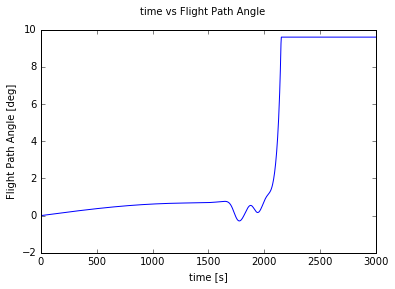
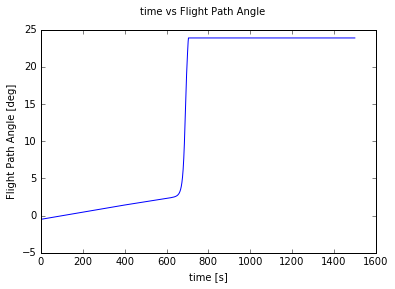
License and readme added

diff --git a/inputs.py b/inputs.py
@@ -7,7 +7,7 @@ def get_inputs():
     """""""""""""""""""""""""""""""""""""""""""""""""""""""""""""""""""""
     
     # Atmosphere options
-    Atmosphere = 1 # 0 for mutant US62/US76 standard atmosphere, 1 for NRLMSISE-00
+    Atmosphere = 0 # 0 for mutant US62/US76 standard atmosphere, 1 for NRLMSISE-00
     
     #nrlmsise-00 options. 
     nrlmsise00_year = 0.
@@ -26,27 +26,27 @@ def get_inputs():
     scWidth = 3.4 # Width [m]
     scDepth = 4.8 # Depth [m]
     scHeight = 2.35 # Height [m]
-    scDensity = 30. # Density of spacecraft [kg/m3]
+    scDensity = 1000. # Density of spacecraft [kg/m3]
   
     # Initial Spacecraft Conditions    
-    FlightPathAngle = 0. # Positive down [deg]
+    FlightPathAngle = -0.5 # Positive down [deg]
     Heading = 102. # Measured clockwise from North [deg]
-    Speed = 7727. # Velocity
+    Speed = 7500. # Velocity
     Latitude = -79.8489  # [deg] Actually Declination. Geodetic Latitude input will be implemented soon
     Longitude = -10 # [deg]
-    Altitude = 220e3 # Initial altitude [m]
+    Altitude = 200e3 # Initial altitude [m]
     
     Pitch = 0. # Euler Angle 1 measured from Geocentric coordinate system
     Yaw = 0. # Euler Angle 2 measured from Geocentric coordinate system
     Roll = 0. # Euler Angle 3 measured from Geocentric coordinate system
     
     omega_x = 0. #3.14 # Angular velocity about the BODY x- axis [deg/s]
-    omega_y = 0. #0.314 # Angular velocity about the BODY y- axis [deg/s]
+    omega_y = 1. #0.314 # Angular velocity about the BODY y- axis [deg/s]
     omega_z = 0. #314 # Angular velocity about the BODY z- axis [deg/s]
     
     # Integration parameters
     ndt = 1001 # Number of output steps
-    tmax = 3000 # time [s]
+    tmax = 1500 # time [s]
     
     """""""""""""""""""""""""""""""""""""""""""""""""""""""""""""""""""""
     #          P O S T P R O C E S S I N G      O P T I O N S           #
@@ -82,8 +82,8 @@ def get_inputs():
                             ('nrlmsise00_sec' , nrlmsise00_sec),
                             ('nrlmsise00_lst' , nrlmsise00_lst),
                             ('nrlmsise00_f107a' ,nrlmsise00_f107a),
-                            ('nrlmsise00_f107' , nrlmsise00_f107)
-                            ('nrlmsise00_ap' , nrlmsise00_ap)
+                            ('nrlmsise00_f107' , nrlmsise00_f107),
+                            ('nrlmsise00_ap' , nrlmsise00_ap),
                             ('ContinuumMethod' , ContinuumMethod),
                             ('GeometryChoice' , GeometryChoice),
                             ('scWidth' , scWidth),

diff --git a/trajectory.py b/trajectory.py
@@ -64,7 +64,7 @@ def traj_uvw(x, t, earth, mass, areas, normals, centroids, I, scLS, aero_params)
     Kn = mfp/scLS
     q_inf = 0.5*rho*Vinf**2
     
-    if r-earth[1] <= 100e3 and Vinf/SoS < 3:
+    if r-earth[1] <= 80e3 and Vinf/SoS < 3:
         # Check if Mach number falls below 5 (Newtonian theory fails) or
         # S/C hits ground
         # There is a better way of doing this which I should implement
@@ -106,13 +106,14 @@ def traj_uvw(x, t, earth, mass, areas, normals, centroids, I, scLS, aero_params)
         edotrot = np.subtract(angvel,(1./r)*np.dot(Gcb,np.array([v, -u, -v*tphi])))
         edot = 0.5*np.dot(emat,edotrot)
         
+        J = 1.5*J2*earth[1]**2
         # time derivative of state variables
         dxdt = [-w,
                 u/r,
                 v/(r*cphi) - ome,
-                AeroF_GC[0] + (u*w-v**2*tphi)/r - (3*mu*J2/(2*r**4))*np.sin(2*phi),
+                AeroF_GC[0] + (u*w-v**2*tphi)/r - (mu*J/(r**4))*np.sin(2*phi),
                 AeroF_GC[1] + (u*v*tphi + v*w)/r,
-                AeroF_GC[2] - (u**2 + v**2)/r + mu/r**2 - (3*mu*J2/(2*r**4))*(2-3*cphi**2),
+                AeroF_GC[2] - (u**2 + v**2)/r + mu/r**2 - (mu*J/(r**4))*(2-3*cphi**2),
                 edot[0],
                 edot[1],            
                 edot[2],

diff --git a/postprocessing.py b/postprocessing.py
@@ -98,7 +98,7 @@ def postprocess(t, sol, earth, mass, areas, normals, centroids, I, x0, scLengthS
     plotfn(4,t,pp_output['Altitude'], 'time', 'Altitude', 's', 'km')
     plotfn(5,t,pp_output['Mach'], 'time', 'Mach Number', 's', '-')
     plotfn(6,t,pp_output['Knudsen'], 'time', 'Knudsen number', 's', '-')
-    plotfn(7,t[0:ndt-1],pp_output['Force'], 'time', 'Force', 's', 'g')
+    plotfn(7,t[0:ndt-1],pp_output['Acceleration'], 'time', 'Force', 's', 'g')
     plotfn(8,t,pp_output['DynamicPressure']*1e-3, 'time', 'Dynamic Pressure', 's', 'kPa')
     plotfn(9,t,pp_output['Energy']*1e-9, 'time', 'Energy', 's', 'GJ')
     

diff --git a/input_processing.py b/input_processing.py
@@ -47,8 +47,7 @@ def process_inputs(get_inputs):
     RawInputs = get_inputs()
     
     # Do S/C geometry    
-    BLengths = np.array([Raw        
-      Inputs['scWidth'],RawInputs['scHeight'],RawInputs['scDepth']])
+    BLengths = np.array([RawInputs['scWidth'],RawInputs['scHeight'],RawInputs['scDepth']])
     CoG_Off = np.array([0.,0.,0.]) # CoG Offset -- ignore for now
     scLengthScale = np.max(BLengths)
     
